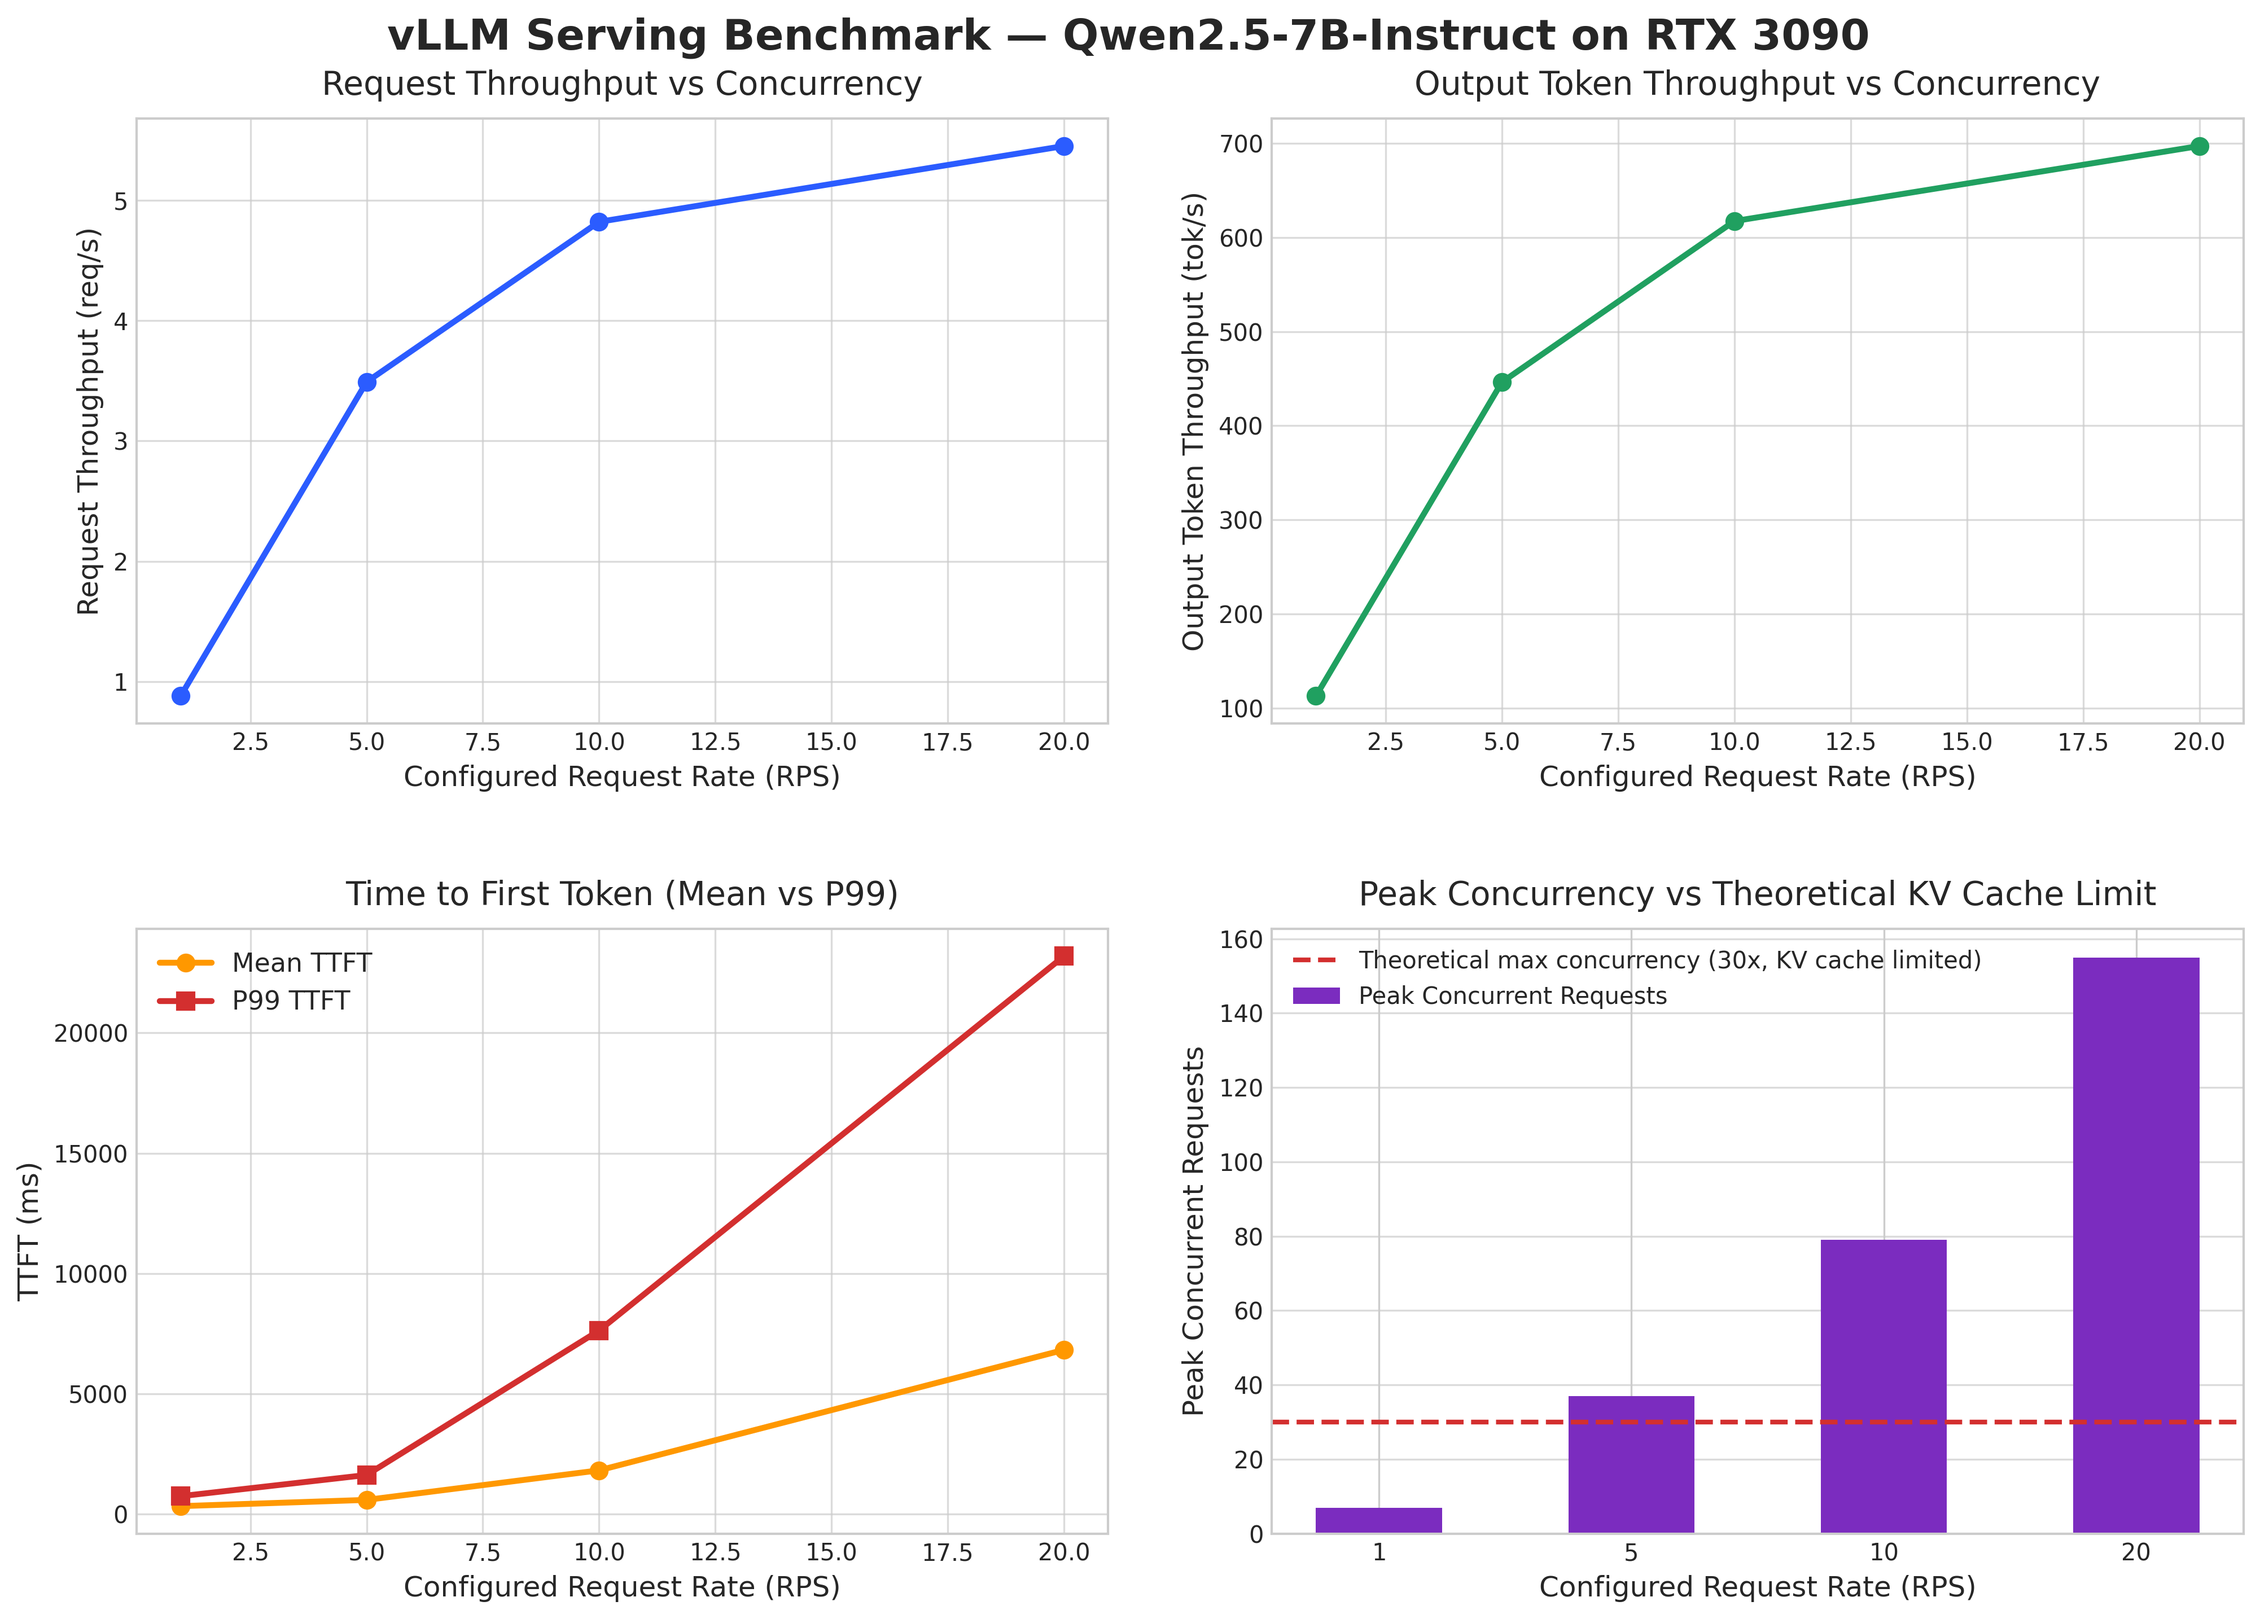
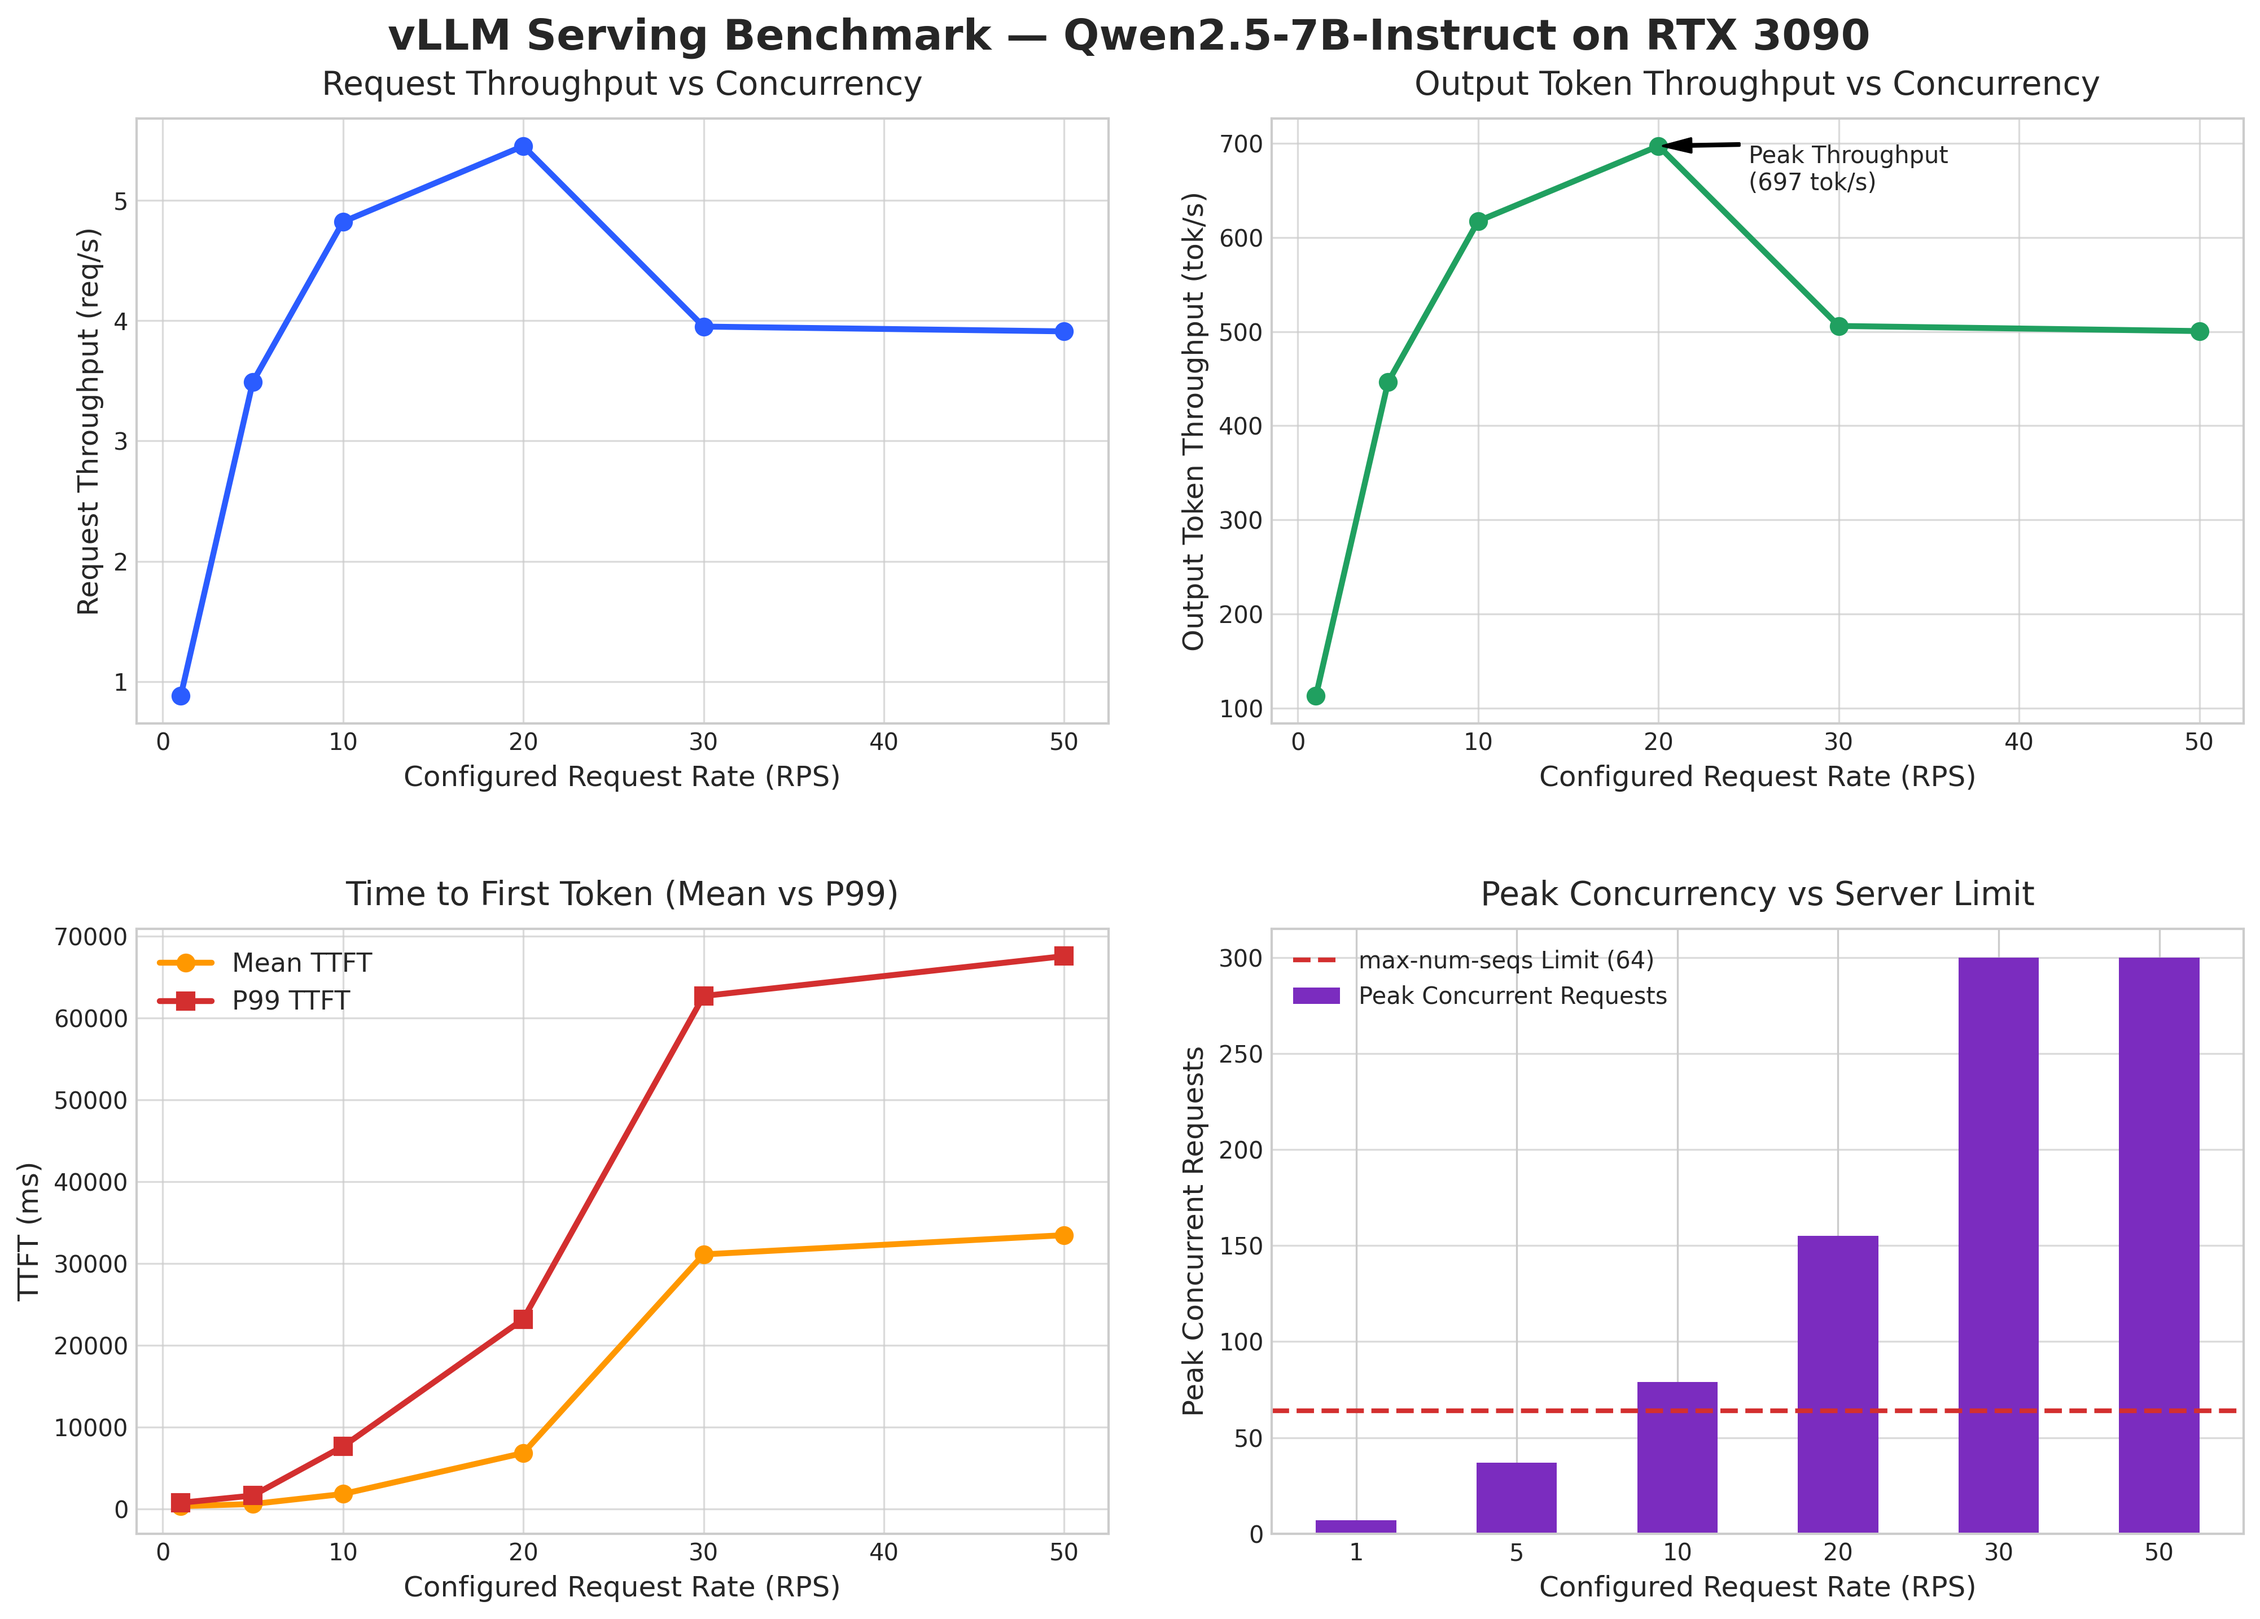
benchmark_results...

diff --git a/bench/plot_benchmark.py b/bench/plot_benchmark.py
@@ -2,27 +2,24 @@ import matplotlib.pyplot as plt
 import numpy as np
 
 # ---------------------------------------------------------
-# 1. 实验数据 (Qwen2.5-7B-Instruct on RTX 3090)
+# 1. 实验数据 
 # ---------------------------------------------------------
-x_labels = [1, 5, 10, 20]
+x_labels = [1, 5, 10, 20, 30, 50]
 
 # 综合性能指标
-req_throughput = [0.88, 3.49, 4.82, 5.45]
-output_token_throughput = [112.72, 446.24, 617.38, 697.15]
-peak_concurrency = [7, 37, 79, 155]
+req_throughput = [0.88, 3.49, 4.82, 5.45, 3.95, 3.91]
+output_token_throughput = [112.72, 446.24, 617.38, 697.15, 505.96, 500.51]
+peak_concurrency = [7, 37, 79, 155, 300, 300]
 
 # 延迟分位数
-ttft_mean = [327.16, 587.16, 1815.21, 6824.76]
-ttft_p99 = [741.38, 1622.57, 7628.66, 23193.78]
-
-# 理论最大并发限制 (基于 3090 24GB, 7B 模型, 4096上下文估算)
-theoretical_max_concurrency = 30
+ttft_mean = [327.16, 587.16, 1815.21, 6824.76, 31109.60, 33461.78]
+ttft_p99 = [741.38, 1622.57, 7628.66, 23193.78, 62701.83, 67581.16]
 
 # ---------------------------------------------------------
 # 2. 全局样式设置
 # ---------------------------------------------------------
-plt.rcParams['font.sans-serif'] = ['DejaVu Sans'] # 使用默认无衬线字体
-plt.style.use('seaborn-v0_8-whitegrid') # 使用带网格的清爽背景风格
+plt.rcParams['font.sans-serif'] = ['DejaVu Sans'] 
+plt.style.use('seaborn-v0_8-whitegrid') 
 fig, axs = plt.subplots(2, 2, figsize=(14, 10))
 fig.suptitle('vLLM Serving Benchmark — Qwen2.5-7B-Instruct on RTX 3090', 
              fontsize=18, fontweight='bold', y=0.98)
@@ -38,10 +35,13 @@ ax1.set_ylabel('Request Throughput (req/s)', fontsize=12)
 ax1.grid(True, linestyle='-', alpha=0.7)
 
 # ---------------------------------------------------------
-# 图2：Output Token Throughput vs Concurrency (右上)
+# 图2：Output Token Throughput vs Concurrency (右上) - 核心撞墙图
 # ---------------------------------------------------------
 ax2 = axs[0, 1]
 ax2.plot(x_labels, output_token_throughput, marker='o', color='#20a060', linewidth=2.5, markersize=7)
+# 标注最高点
+ax2.annotate('Peak Throughput\n(697 tok/s)', xy=(20, 697.15), xytext=(25, 650),
+             arrowprops=dict(facecolor='black', shrink=0.05, width=1, headwidth=6), fontsize=10)
 ax2.set_title('Output Token Throughput vs Concurrency', fontsize=14, pad=10)
 ax2.set_xlabel('Configured Request Rate (RPS)', fontsize=12)
 ax2.set_ylabel('Output Token Throughput (tok/s)', fontsize=12)
@@ -53,6 +53,9 @@ ax2.grid(True, linestyle='-', alpha=0.7)
 ax3 = axs[1, 0]
 ax3.plot(x_labels, ttft_mean, marker='o', color='#ff9800', linewidth=2.5, markersize=7, label='Mean TTFT')
 ax3.plot(x_labels, ttft_p99, marker='s', color='#d32f2f', linewidth=2.5, markersize=7, label='P99 TTFT')
+# 使用对数坐标轴(可选)，因为 30 和 50 RPS 的延迟太夸张了，线性坐标下前面的点会被压缩得很厉害
+# 如果不想用对数轴，删掉下面这行即可，视觉上会很震撼（直冲云霄）
+# ax3.set_yscale('log') 
 ax3.set_title('Time to First Token (Mean vs P99)', fontsize=14, pad=10)
 ax3.set_xlabel('Configured Request Rate (RPS)', fontsize=12)
 ax3.set_ylabel('TTFT (ms)', fontsize=12)
@@ -60,15 +63,15 @@ ax3.legend(loc='upper left', fontsize=11)
 ax3.grid(True, linestyle='-', alpha=0.7)
 
 # ---------------------------------------------------------
-# 图4：Peak Concurrency vs Theoretical KV Cache Limit (右下)
+# 图4：Peak Concurrency vs Theoretical Limit (右下)
 # ---------------------------------------------------------
 ax4 = axs[1, 1]
-# 注意：因为第一组数据是 1 RPS，为了画柱状图稍微调整宽度和位置
 bar_positions = np.arange(len(x_labels))
 ax4.bar(bar_positions, peak_concurrency, color='#7b2cbf', width=0.5, label='Peak Concurrent Requests')
-ax4.axhline(y=theoretical_max_concurrency, color='#d32f2f', linestyle='--', linewidth=2, 
-            label=f'Theoretical max concurrency ({theoretical_max_concurrency}x, KV cache limited)')
-ax4.set_title('Peak Concurrency vs Theoretical KV Cache Limit', fontsize=14, pad=10)
+# 这里的理论限制线可以去掉，或者改成 Max Num Seqs 限制
+ax4.axhline(y=64, color='#d32f2f', linestyle='--', linewidth=2, 
+            label='max-num-seqs Limit (64)')
+ax4.set_title('Peak Concurrency vs Server Limit', fontsize=14, pad=10)
 ax4.set_xlabel('Configured Request Rate (RPS)', fontsize=12)
 ax4.set_ylabel('Peak Concurrent Requests', fontsize=12)
 ax4.set_xticks(bar_positions)
@@ -81,7 +84,6 @@ ax4.grid(True, linestyle='-', alpha=0.7, axis='y')
 # ---------------------------------------------------------
 plt.tight_layout(pad=3.0)
 plt.subplots_adjust(top=0.92) 
-
 
 plt.savefig('vllm_benchmark_rtx3090.png', dpi=300, bbox_inches='tight')
 plt.show()

diff --git a/README.md b/README.md
@@ -4,9 +4,9 @@
 
 ## 🖥 实验环境 (Test Environment)
 
-*   **模型 (Model):** Qwen/Qwen2.5-7B-Instruct
+*   **模型 (Model):** Qwen/Qwen2.5-7B-Instruct (FP16)
 *   **推理框架 (Framework):** vLLM (version 0.33.0)
-*   **GPU:** *[NVIDIA RTX 3090 24GB]*
+*   **GPU:** NVIDIA RTX 3090 24GB
 *   **CUDA Version:** 12.8
 *   **PyTorch Version:** 2.14.0+cu130
 *   **测试工具:** `vllm bench serve` (默认输入长度 1024，输出长度 128)
@@ -23,7 +23,7 @@ vllm serve Qwen/Qwen2.5-7B-Instruct \
 
 ## 📊 压测数据汇总 (Benchmark Results)
 
-我们使用了不同的请求速率 (Request Rate) 进行了 4 组测试，所有测试均为 **0 失败 (Failed requests: 0)**，服务表现出极高的稳定性。
+我们使用了不同的请求速率 (Request Rate) 进行了 **6 组** 测试，所有测试均为 **0 失败 (Failed requests: 0)**，服务表现出极高的稳定性。
 
 ![vLLM Benchmark on RTX 3090](./bench/vllm_benchmark_rtx3090.png)
 
@@ -34,7 +34,9 @@ vllm serve Qwen/Qwen2.5-7B-Instruct \
 | **Rate 1** | 1.00 | 20 | 0.88 | 112.72 | 7 | **327.16 ms** | **23.35 ms** |
 | **Rate 5** | 5.00 | 50 | 3.49 | 446.24 | 37 | **587.16 ms** | **40.67 ms** |
 | **Rate 10** | 10.00 | 100 | 4.82 | 617.38 | 79 | **1815.21 ms** | **64.53 ms** |
-| **Rate 20** | 20.00 | 200 | 5.45 | 697.15 | 155 | **6824.76 ms** | **82.02 ms** |
+| **Rate 20** | 20.00 | 200 | 5.45 | **697.15** | 155 | **6824.76 ms** | **82.02 ms** |
+| **Rate 30** | 30.00 | 300 | 3.95 | **505.96** | 300 | **31109.60 ms** | **108.37 ms** |
+| **Rate 50** | 50.00 | 300 | 3.91 | **500.51** | 300 | **33461.78 ms** | **109.66 ms** |
 
 ### 2. 延迟分位数详情 (Latency Percentiles)
 
@@ -44,6 +46,8 @@ vllm serve Qwen/Qwen2.5-7B-Instruct \
 | **Rate 5** | 1622.57 ms | 66.58 ms | 40.67 ms |
 | **Rate 10** | 7628.66 ms | 105.54 ms | 64.53 ms |
 | **Rate 20** | 23193.78 ms | 135.07 ms | 82.02 ms |
+| **Rate 30** | 62701.83 ms | 123.72 ms | 108.37 ms |
+| **Rate 50** | 67581.16 ms | 124.19 ms | 109.66 ms |
 
 > *注：TTFT = Time to First Token (首字延迟), TPOT = Time per Output Token (单字生成延迟), ITL = Inter-token Latency (Token间延迟)*
 
@@ -64,3 +68,11 @@ vllm serve Qwen/Qwen2.5-7B-Instruct \
 
 *   服务启动时限制了 `--max-num-seqs 64`。但在 Rate 20 的测试中，**峰值并发数达到了 155**。
 *   这说明请求的到达速度（20 req/s）远超 GPU 的处理速度。多出来的请求堆积在 API 层的等待队列中，导致系统整体的排队延迟远大于计算延迟。
+
+### 4. 极限施压下的“性能撞墙”与雪崩效应
+
+当测试继续加压至 **30 RPS** 和 **50 RPS** 时，系统出现了极其明显的“性能撞墙”与雪崩现象：
+
+*   **吞吐量断崖式下跌**：系统的输出吞吐量并未随着并发增加而上升，反而从 20 RPS 时的巅峰 `697 tok/s` 暴跌并停滞在 `500 tok/s` 左右。此时“加量不加价”，反而出现了负优化。
+*   **延迟彻底失控**：平均首字延迟（TTFT）从 6.8 秒直接飙升至 **31 ~ 33 秒**，P99 延迟更是达到了夸张的 **60 ~ 67 秒**，服务实质上已处于不可用状态。
+*   **根因分析**：由于 FP16 模型权重已占用大量显存，加上 `--max-num-seqs 64` 的限制，在如此高并发下，大量请求堆积在 Uvicorn API 层（客户端记录峰值并发达到 300）。GPU 内部的 KV Cache 满载导致 vLLM 引擎频繁触发 **抢占（Preemption）**，大量请求被踢出显存又重新计算，产生了巨大的额外开销（Overhead），最终导致系统吞吐量雪崩。

diff --git a/scripts/README.md b/scripts/README.md
@@ -54,3 +54,21 @@ vllm bench serve --backend vllm --model Qwen/Qwen2.5-7B-Instruct \
 vllm bench serve --backend vllm --model Qwen/Qwen2.5-7B-Instruct \
     --num-prompts 200 --request-rate 20 \
     --save-result --result-filename rate20.json
+
+vllm bench serve --backend vllm --model Qwen/Qwen2.5-7B-Instruct \
+    --num-prompts 300 --request-rate 30 \
+    --save-result --result-filename rate30.json
+
+vllm bench serve --backend vllm --model Qwen/Qwen2.5-7B-Instruct \
+    --num-prompts 300 --request-rate 50 \
+    --save-result --result-filename rate50.json
+
+Qwen/Qwen2.5-7B-Instruct-AWQ
+
+
+vllm serve Qwen/Qwen2.5-7B-Instruct-AWQ \
+  --host 0.0.0.0 \
+  --port 8000 \
+  --gpu-memory-utilization 0.90 \
+  --max-model-len 4096 \
+  --max-num-seqs 64
